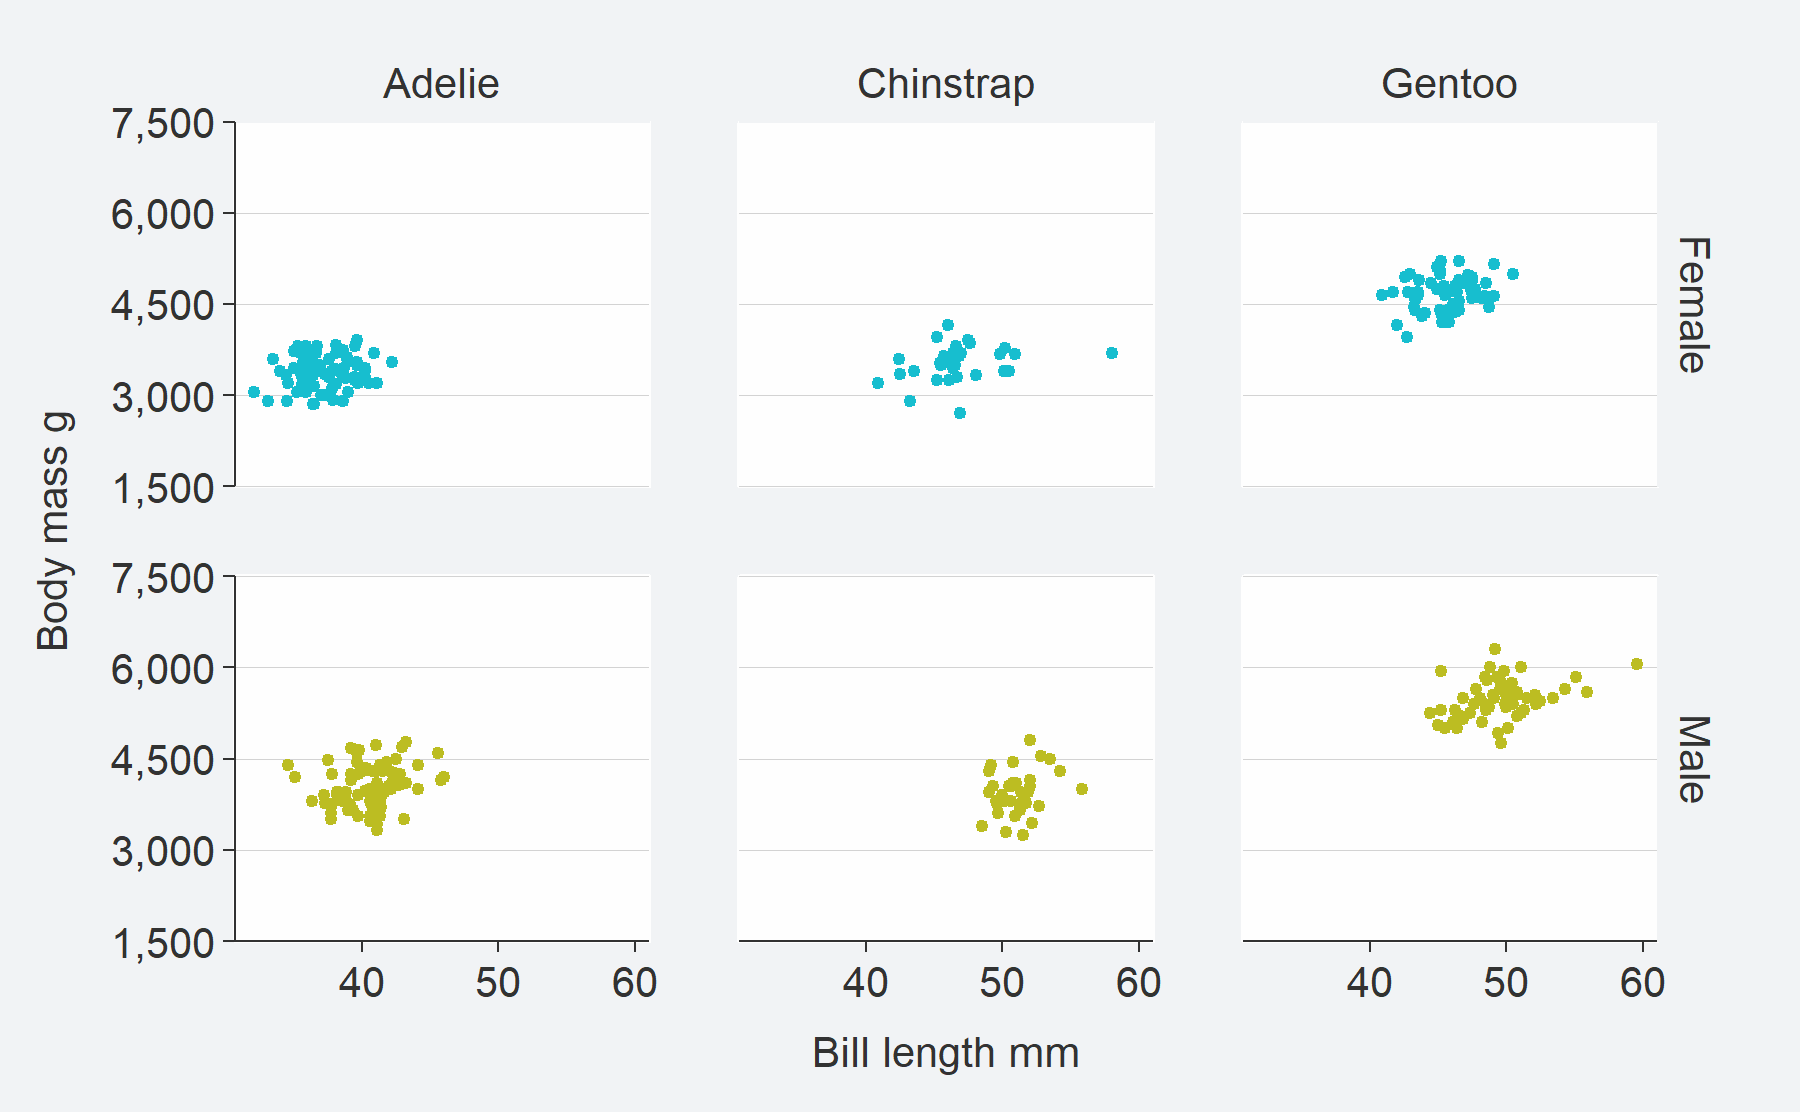
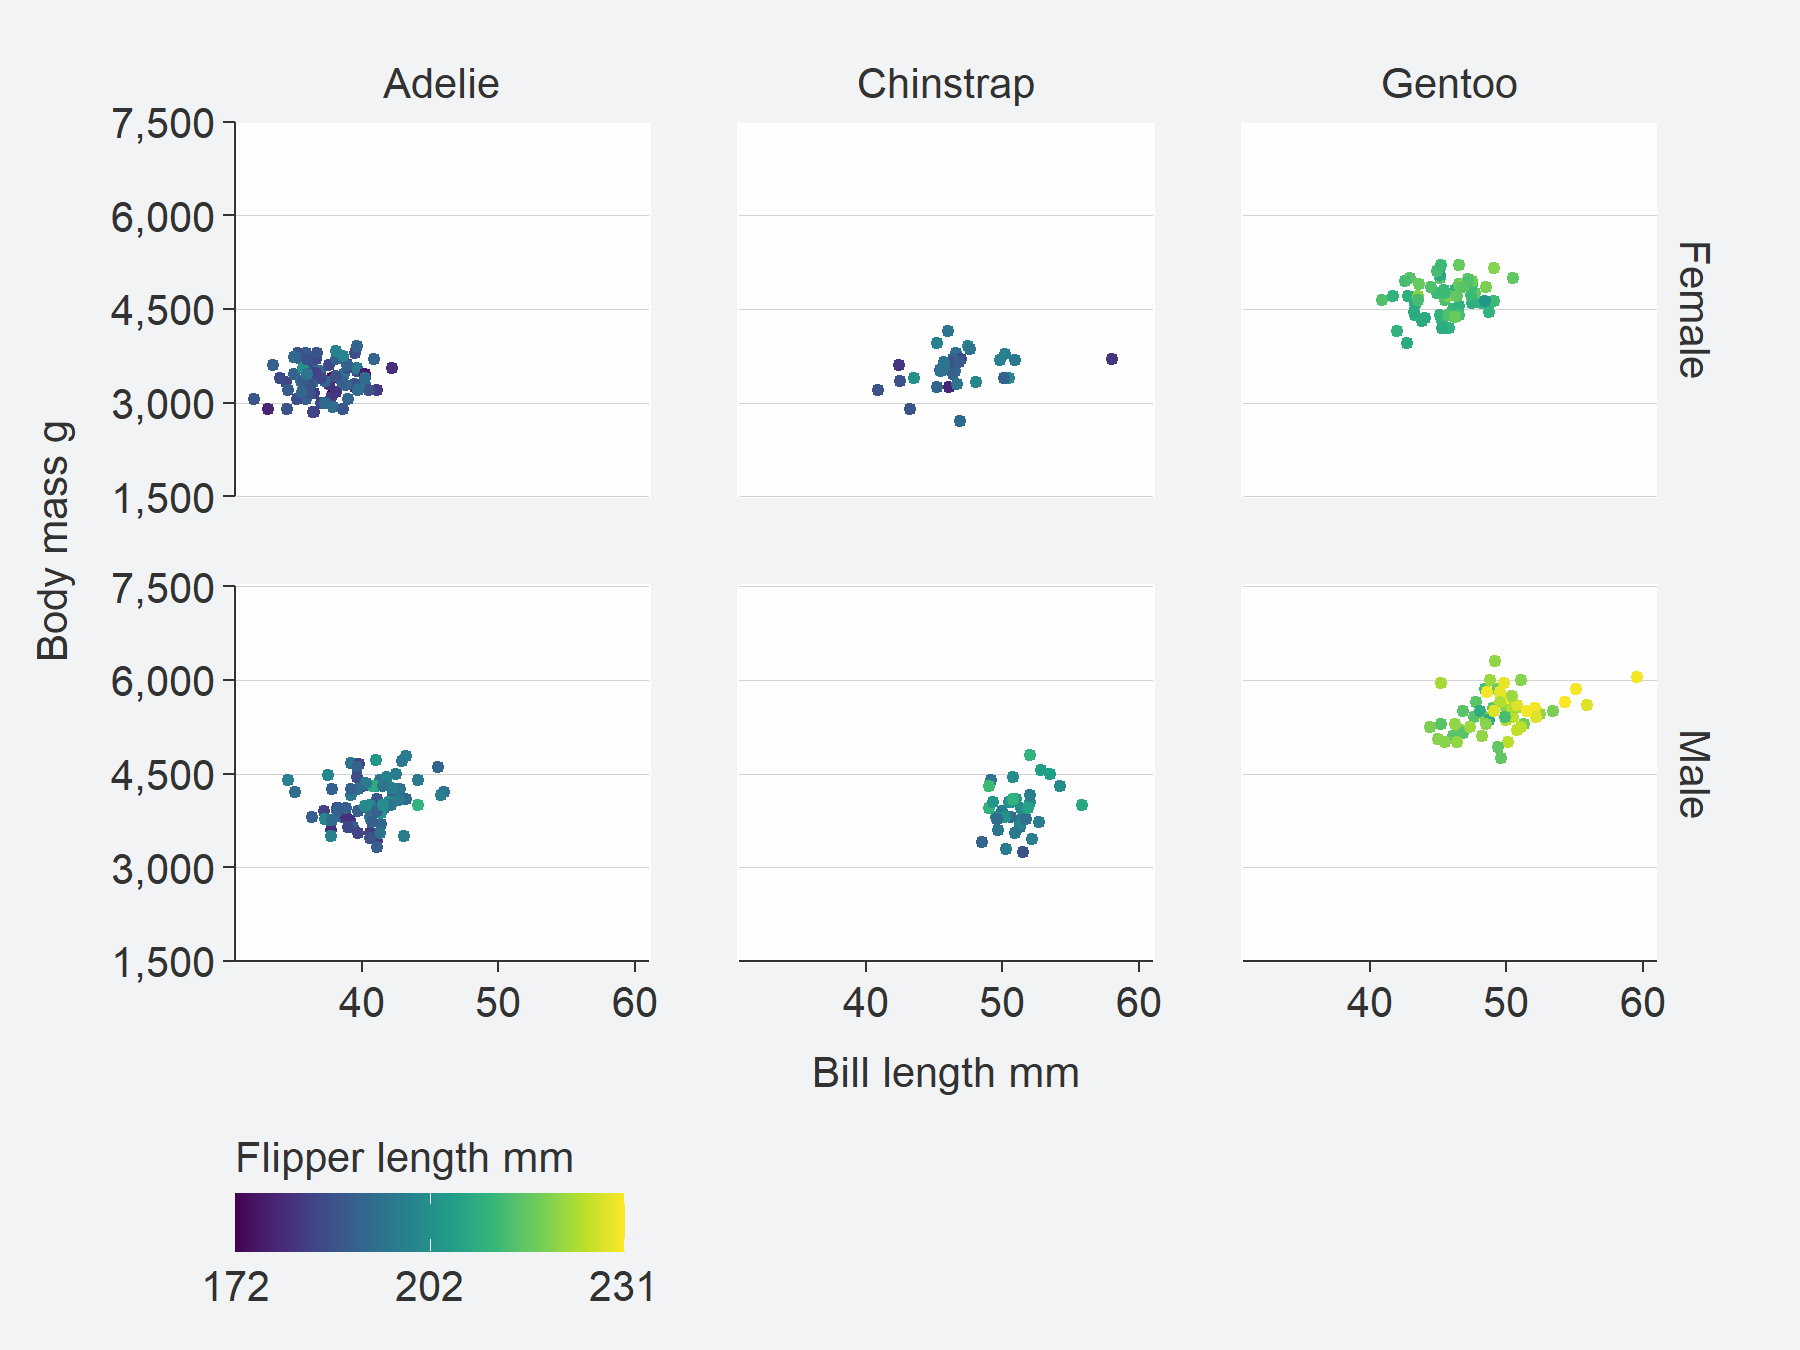
Update

diff --git a/README.md b/README.md
@@ -163,7 +163,7 @@ penguins %>%
   gg_point(
     x = bill_length_mm, 
     y = body_mass_g,
-    col = sex,
+    col = flipper_length_mm,
     facet = species,
     facet2 = sex, 
     y_breaks = scales::breaks_width(1500), 
